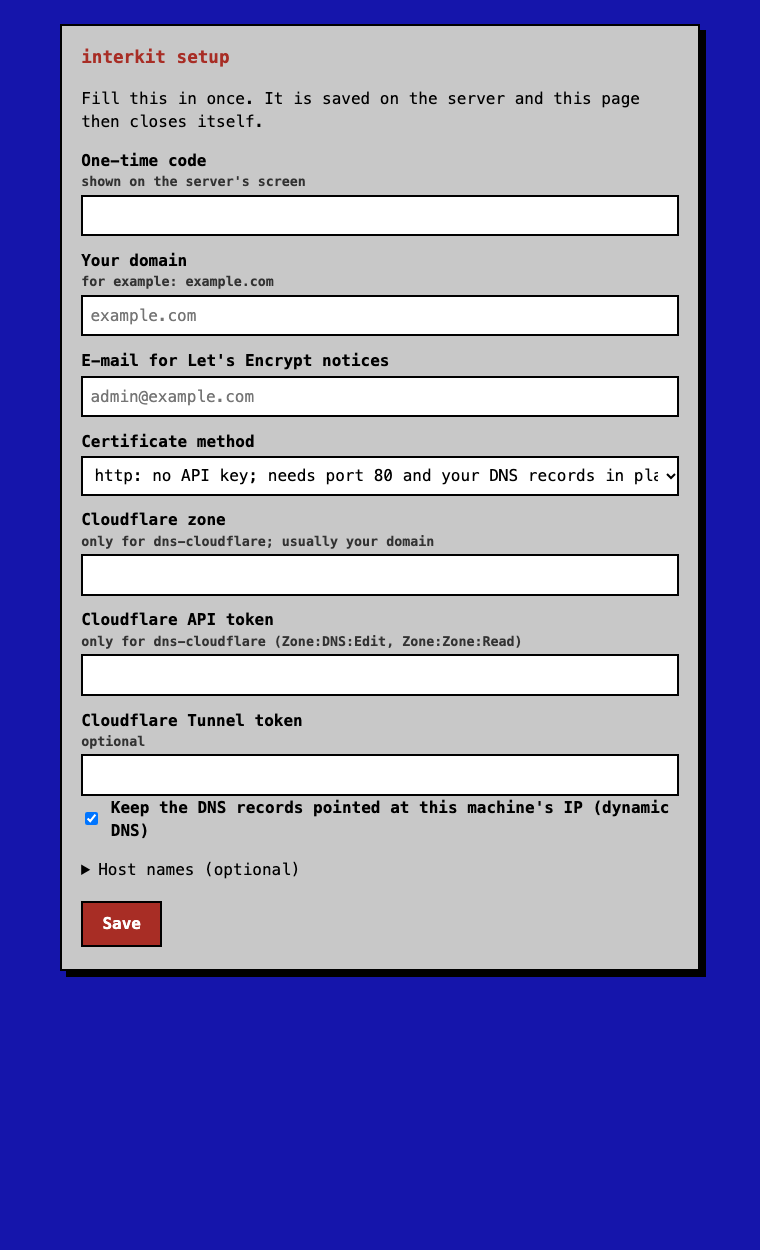
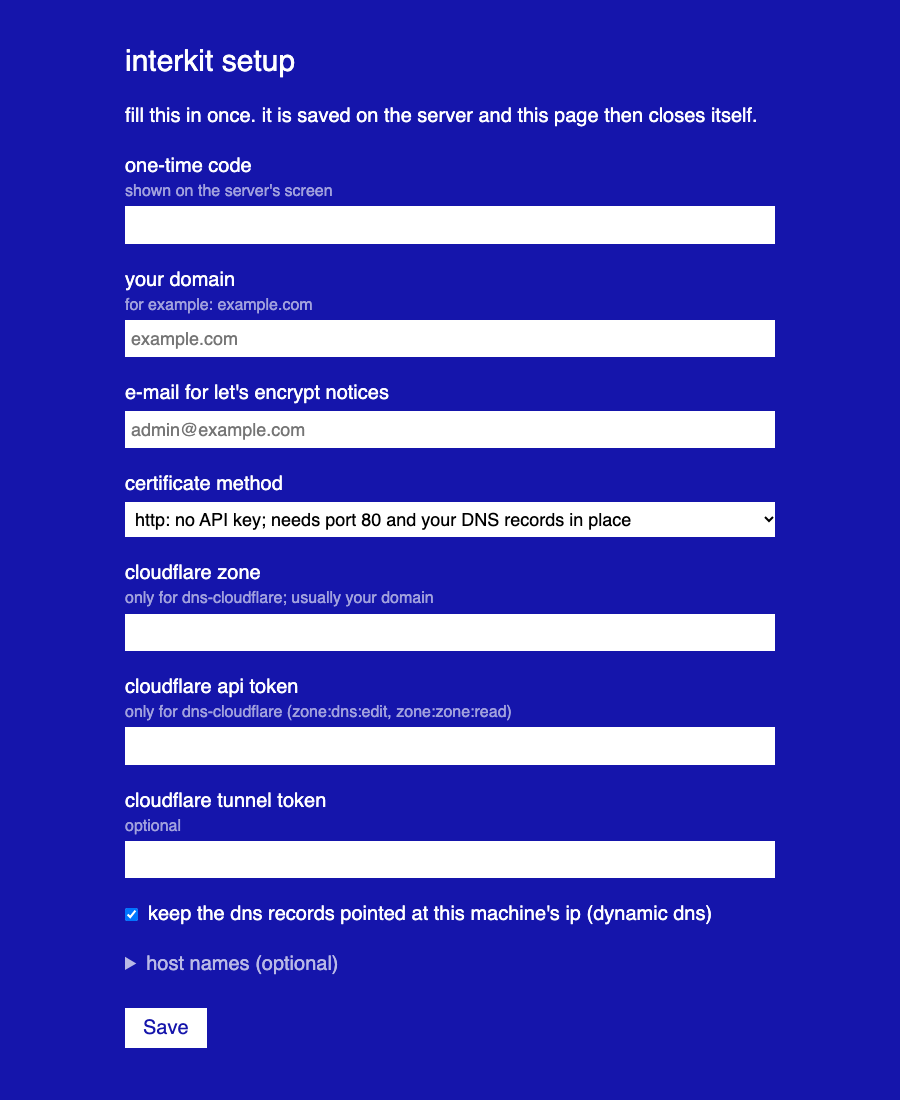
web-ui: restyle the setup form like the Fossil skin
Blue background, white lowercase text, narrow column, plain fields; no gray box. Update the README screenshot.

diff --git a/config/includes.chroot/usr/lib/interkit/webui.py b/config/includes.chroot/usr/lib/interkit/webui.py
@@ -30,26 +30,30 @@ def page(body, status_note=""):
     return f"""<!doctype html><html lang="en"><head><meta charset="utf-8">
 <meta name="viewport" content="width=device-width,initial-scale=1"><title>interkit setup</title>
 <style>
-:root{{--bg:#1515ab;--panel:#b2b2b2;--ink:#000;--accent:#a82d25;--ok:#1a6b2a}}
-@media (prefers-color-scheme:dark){{:root{{--panel:#c8c8c8}}}}
-body{{margin:0;background:var(--bg);font:16px/1.45 ui-monospace,Menlo,Consolas,monospace;color:#fff}}
-main{{max-width:40rem;margin:0 auto;padding:1.5rem 1rem}}
-.box{{background:var(--panel);color:var(--ink);padding:1.2rem 1.2rem 1.4rem;border:2px solid #000;box-shadow:6px 6px 0 #000}}
-h1{{font-size:1.1rem;margin:0 0 .8rem;color:var(--accent)}}
-label{{display:block;margin:.8rem 0 .2rem;font-weight:bold}} small{{display:block;color:#333}}
-input,select{{width:100%;box-sizing:border-box;font:inherit;padding:.45rem;border:2px solid #000;background:#fff;color:#000}}
-.row{{display:flex;gap:.6rem;align-items:center}} .row input{{width:auto}}
-button{{margin-top:1.2rem;font:inherit;font-weight:bold;padding:.6rem 1.2rem;background:var(--accent);color:#fff;border:2px solid #000;cursor:pointer}}
-.err{{background:#fff;border:2px solid var(--accent);padding:.5rem;margin-bottom:.8rem;color:var(--accent)}}
-.ok{{color:var(--ok)}} details{{margin-top:1rem}}
-</style></head><body><main><div class="box">{status_note}{body}</div></main></body></html>"""
+/* same look as the interkit Fossil skin: blue background, white text, lowercase, narrow column, no boxes */
+:root{{font-family:sans-serif}}
+html,body{{background:#1515ab}}
+body{{color:#fff;text-transform:lowercase;font-size:20px;line-height:1.4;padding:0 25px;margin:30px auto;max-width:650px;overflow-wrap:break-word}}
+h1{{font-size:30px;font-weight:400;margin:40px 0 10px;color:#fff}}
+p,label,summary,small{{color:#fff}}
+label{{display:block;margin:22px 0 4px}}
+small{{display:block;opacity:.6;font-size:16px}}
+input,select{{width:100%;box-sizing:border-box;font:inherit;font-size:18px;padding:6px;border:0;border-radius:0;background:#fff;color:#000;text-transform:none}}
+input[type=checkbox]{{width:auto;margin:0 10px 0 0}}
+.row{{display:flex;align-items:center;margin-top:22px}}.row label{{margin:0}}
+button{{margin-top:30px;font:inherit;padding:6px 18px;border:0;border-radius:0;background:#fff;color:#1515ab;cursor:pointer}}
+button:hover{{background:#feb200;color:#000}}
+details{{margin-top:22px}}summary{{cursor:pointer;opacity:.7}}
+.err{{color:#ff8a80;margin:0 0 10px}}
+.ok{{color:#fff}}
+</style></head><body><main>{status_note}{body}</main></body></html>"""
 
 
 def form(error="", values=None):
     v = values or {}
     e = lambda k: html.escape(v.get(k, ""), quote=True)
     sel = lambda k, x: " selected" if v.get(k, "http") == x else ""
-    err = f'<div class="err">{html.escape(error)}</div>' if error else ""
+    err = f'<p class="err">{html.escape(error)}</p>' if error else ""
     return page(f"""<h1>interkit setup</h1>{err}
 <p>Fill this in once. It is saved on the server and this page then closes itself.</p>
 <form method="post" action="/" autocomplete="off">
